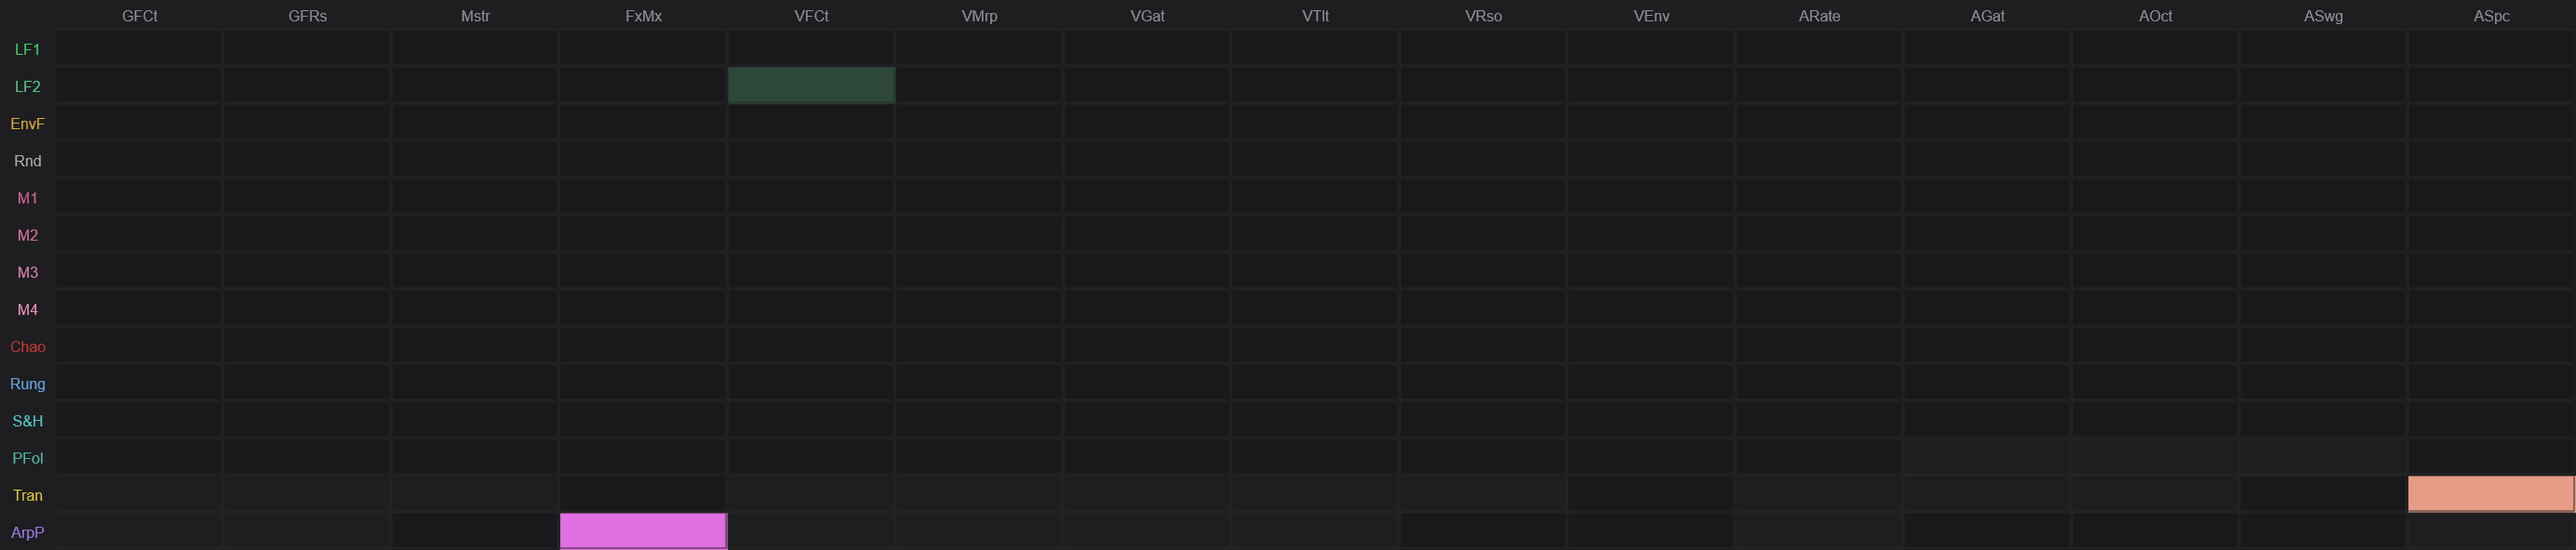
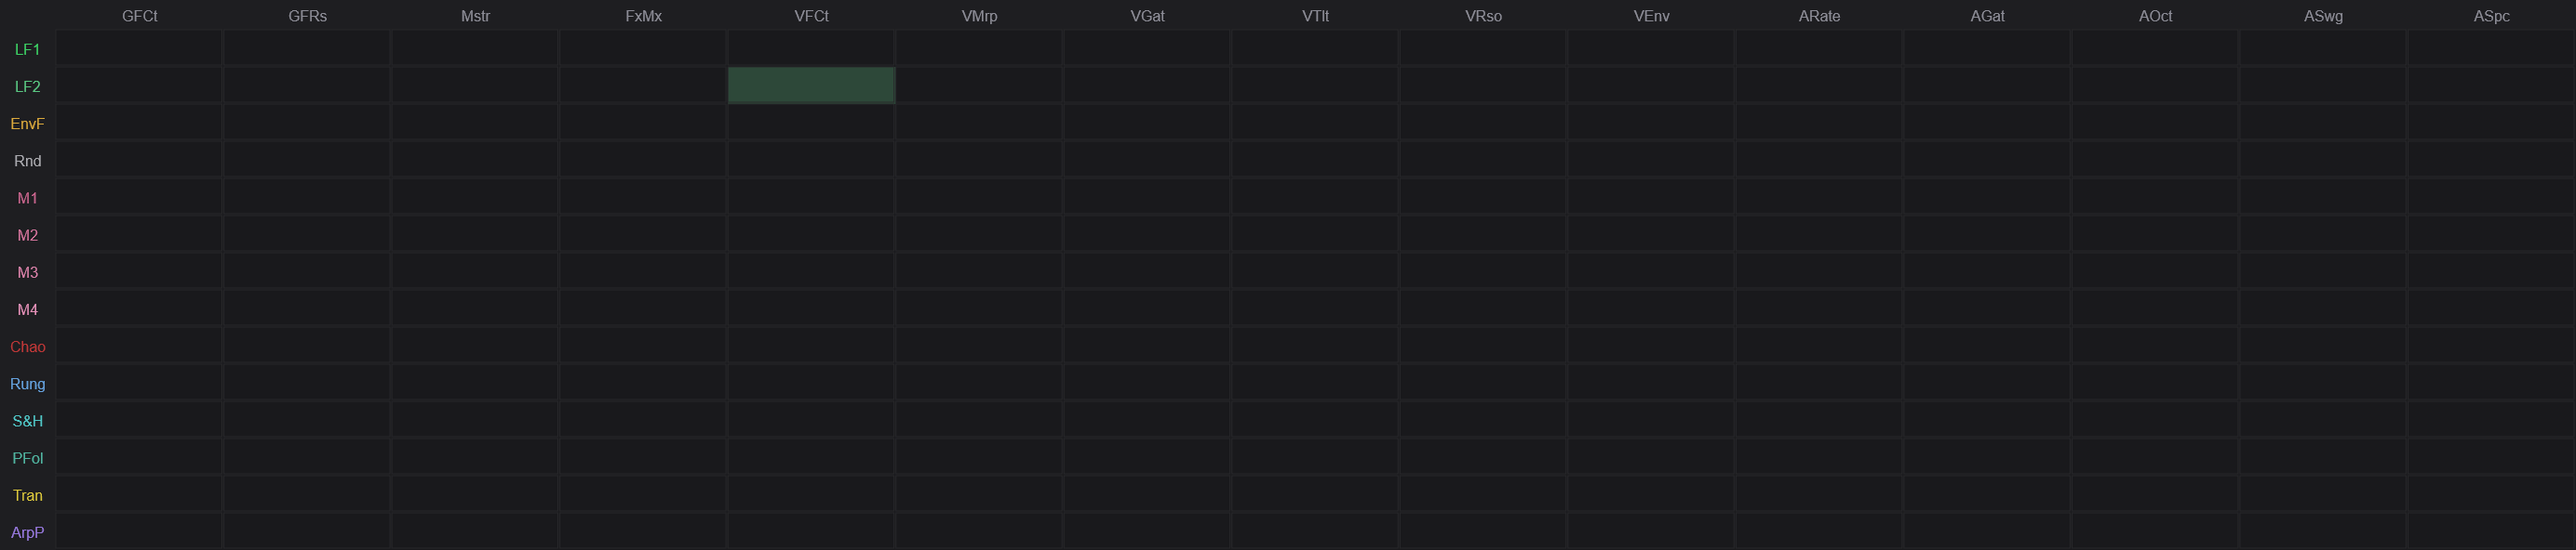
fix(shared): size the mod heatmap grid to the real source and destination counts
ModHeatmap stored a 12 x 11 cell grid while the Global tab draws 14 sources
x 15 destinations (mod_matrix_types.h). draw() and the hit test read past the
array, lighting random cells in the bottom rows (a different picture every
run, which made Ruinae's screenshots unstable), and setCell silently dropped
every route from Tran or ArpP or to AGat, AOct, ASwg or ASpc, so those routes
never showed in the heatmap.

The grid is now max(global, voice) in each direction, taken from the counts
themselves. A bounds-checked cellAt() lets tests read cells; two new
mod_matrix_grid_test cases cover every Global and Voice cell and a route from
the last source to the last destination (red before: 78 of 210 Global cells
lost). Also fixes a pre-existing signed/unsigned tidy warning in that file.

Ruinae's screenshots now render byte-identically run to run; mod-heatmap.png,
mod-tab.png and sound-tab.png are refreshed.

Changed region(s): [[0.9321, 0.8514, 1.0, 0.9426], [0.2175, 0.9122, 0.2796, 1.0]]

diff --git a/plugins/ruinae/tests/integration/mod_matrix_grid_test.cpp b/plugins/ruinae/tests/integration/mod_matrix_grid_test.cpp
@@ -466,7 +466,7 @@ TEST_CASE("ModMatrixGrid: curve cycle fires parameter callback", "[modmatrix][gr
         ModRoute r = grid.getGlobalRoute(0);
         r.curve = static_cast<uint8_t>(expectedCurve);
         grid.setGlobalRoute(0, r);
-        REQUIRE(grid.getGlobalRoute(0).curve == expectedCurve);
+        REQUIRE(grid.getGlobalRoute(0).curve == static_cast<uint8_t>(expectedCurve));
     }
 }
 
@@ -674,6 +674,49 @@ TEST_CASE("ModMatrixGrid: add and remove routes sync heatmap", "[modmatrix][grid
 
     // Heatmap should have been synced after each operation
     // (verified by the fact that syncHeatmap is called in each method)
+}
+
+// The cell grid was sized 12 x 11 while the Global tab draws 14 sources x 15 destinations: a route from Tran or
+// ArpP, or to AGat .. ASpc, was dropped by setCell, and draw() read past the array into garbage (cells lit at
+// random, different in every run).
+TEST_CASE("ModHeatmap: every Global and Voice cell is stored", "[modmatrix][heatmap][unit]") {
+    ModHeatmap heatmap(VSTGUI::CRect(0, 0, 300, 100));
+    for (int s = 0; s < kNumGlobalSources; ++s) {
+        for (int d = 0; d < kNumGlobalDestinations; ++d) {
+            INFO("global source " << s << ", destination " << d);
+            heatmap.setCell(s, d, 0.5f, true);
+            const ModHeatmap::CellData cell = heatmap.cellAt(s, d);
+            CHECK(cell.active);
+            CHECK(cell.amount == 0.5f);
+        }
+    }
+    for (int s = 0; s < kNumVoiceSources; ++s) {
+        for (int d = 0; d < kNumVoiceDestinations; ++d) {
+            INFO("voice source " << s << ", destination " << d);
+            heatmap.setCell(s, d, -0.25f, true);
+            CHECK(heatmap.cellAt(s, d).active);
+        }
+    }
+}
+
+TEST_CASE("ModMatrixGrid: a route from the last Global source to the last destination reaches the heatmap",
+          "[modmatrix][grid][heatmap][integration]") {
+    ModMatrixGrid grid(VSTGUI::CRect(0, 0, 430, 250));
+    ModHeatmap heatmap(VSTGUI::CRect(0, 0, 300, 100));
+    grid.setRouteChangedCallback([](int, int, const ModRoute&) {});
+    grid.setHeatmap(&heatmap);
+    grid.addRoute();
+
+    ModRoute r;
+    r.active = true;
+    r.source = static_cast<uint8_t>(kNumGlobalSources - 1);
+    r.destination = static_cast<ModDestination>(kNumGlobalDestinations - 1);
+    r.amount = 0.6f;
+    grid.setGlobalRoute(0, r);
+
+    const ModHeatmap::CellData cell = heatmap.cellAt(kNumGlobalSources - 1, kNumGlobalDestinations - 1);
+    CHECK(cell.active);
+    CHECK(cell.amount == 0.6f);
 }
 
 TEST_CASE("ModMatrixGrid: tab switch updates heatmap mode", "[modmatrix][grid][heatmap][integration]") {

diff --git a/plugins/shared/src/ui/mod_heatmap.h b/plugins/shared/src/ui/mod_heatmap.h
@@ -7,8 +7,8 @@
 // intensity. Cell color = source color, brightness = |amount|.
 // Supports click-to-select and hover tooltips.
 //
-// Global mode: 12 sources x 11 destinations grid
-// Voice mode:   8 sources x  7 destinations grid
+// Global mode: kNumGlobalSources x kNumGlobalDestinations (14 x 15)
+// Voice mode:  kNumVoiceSources x kNumVoiceDestinations (8 x 8)
 //
 // Registered as "ModHeatmap" via VSTGUI ViewCreator system.
 // Spec: 049-mod-matrix-grid (FR-031 to FR-038)
@@ -46,8 +46,10 @@ public:
     // Constants
     // =========================================================================
 
-    static constexpr int kMaxSources = 12;      // Global mode max
-    static constexpr int kMaxDestinations = 11;  // Global mode max
+    // The cell grid holds the larger tab in each direction (mod_matrix_types.h). draw() and the hit test walk the
+    // tab's full source x destination range, so a smaller grid is an out-of-bounds read.
+    static constexpr int kMaxSources = std::max(kNumGlobalSources, kNumVoiceSources);
+    static constexpr int kMaxDestinations = std::max(kNumGlobalDestinations, kNumVoiceDestinations);
     static constexpr VSTGUI::CCoord kHeaderHeight = 16.0;
     static constexpr VSTGUI::CCoord kRowHeaderWidth = 30.0;
 
@@ -86,6 +88,14 @@ public:
             cellData_[static_cast<size_t>(sourceRow)][static_cast<size_t>(destCol)] = {.amount = amount, .active = active};
             setDirty();
         }
+    }
+
+    /// The cell at (@p sourceRow, @p destCol); an empty cell outside the grid.
+    [[nodiscard]] CellData cellAt(int sourceRow, int destCol) const {
+        if (sourceRow < 0 || sourceRow >= kMaxSources || destCol < 0 || destCol >= kMaxDestinations) {
+            return {};
+        }
+        return cellData_[static_cast<size_t>(sourceRow)][static_cast<size_t>(destCol)];
     }
 
     void setMode(int mode) {
